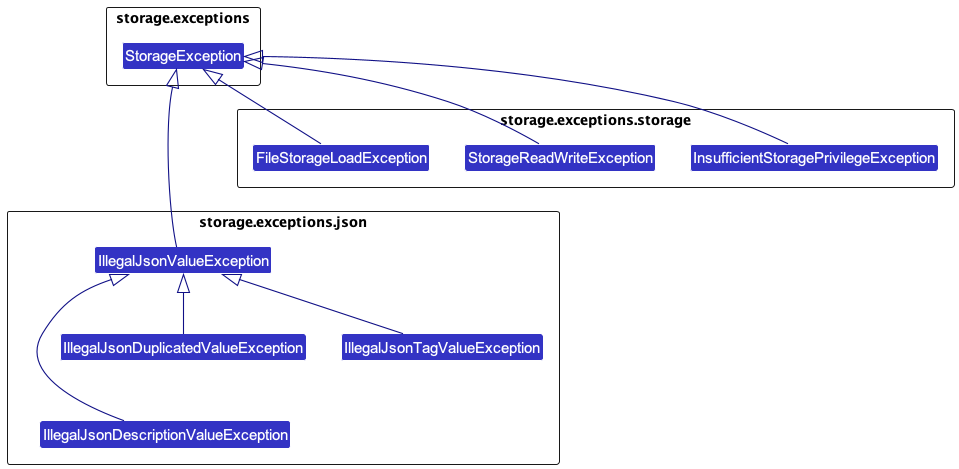
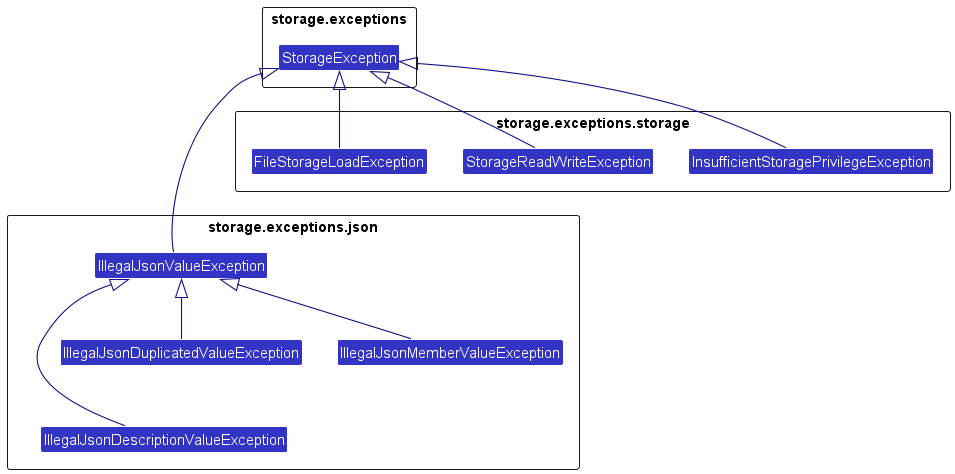
Update images

diff --git a/docs/DeveloperGuide.md b/docs/DeveloperGuide.md
@@ -305,7 +305,7 @@ For example, if the command `add t/task t/another task` is entered, the duplicat
 
 #### `IllegalArgumentException`
 
-This Exception is thrown when the user enters a valid command but with invalid arguments. This Exception is mainly thrown by parsing methods found in `ParserUtil`, which handles the parsing of Task Index, Description, Tag, Sort Order and Sort Type.
+This Exception is thrown when the user enters a valid command but with invalid arguments. This Exception is mainly thrown by parsing methods found in `ParserUtil`, which handles the parsing of Task Index, Description, Member, Sort Order and Sort Type.
 
 #### `InvalidCommandException`
 
@@ -337,9 +337,9 @@ This Exception is thrown when the data stored in TaskWise's JSON data files do n
 
 This Exception is thrown when the stored Task Description is corrupted and cannot be read from the JSON data file.
 
-#### `IllegalJsonTagValueException`
+#### `IllegalJsonMemberValueException`
 
-This Exception is thrown when the stored Task Tags are corrupted and cannot be read from the JSON data file.
+This Exception is thrown when the stored Task Members are corrupted and cannot be read from the JSON data file.
 
 #### `IllegalJsonDuplicatedValueException`
 
@@ -1003,8 +1003,6 @@ Use case ends.
 
 Use case ends.
 
-![overview](images/UseCaseDiagram.png)
-
 ### UC13: Clear tasks in task list
 
 Actor(s): Project Manager
@@ -1117,6 +1115,8 @@ Use case ends.
 &ensp;&ensp;1b2. User acknowledges the warning.
 
 Use case ends.
+
+![overview](images/UseCaseDiagram.png)
 
 ## Non-Functional Requirements
 
